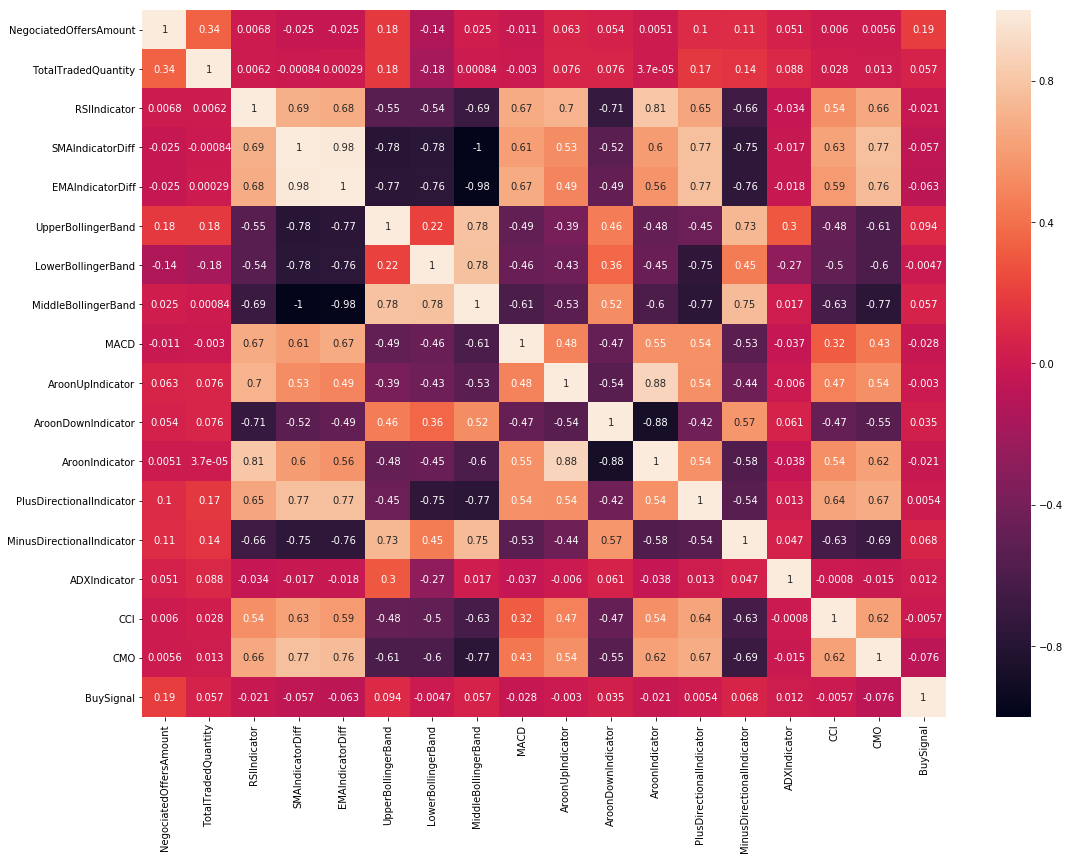
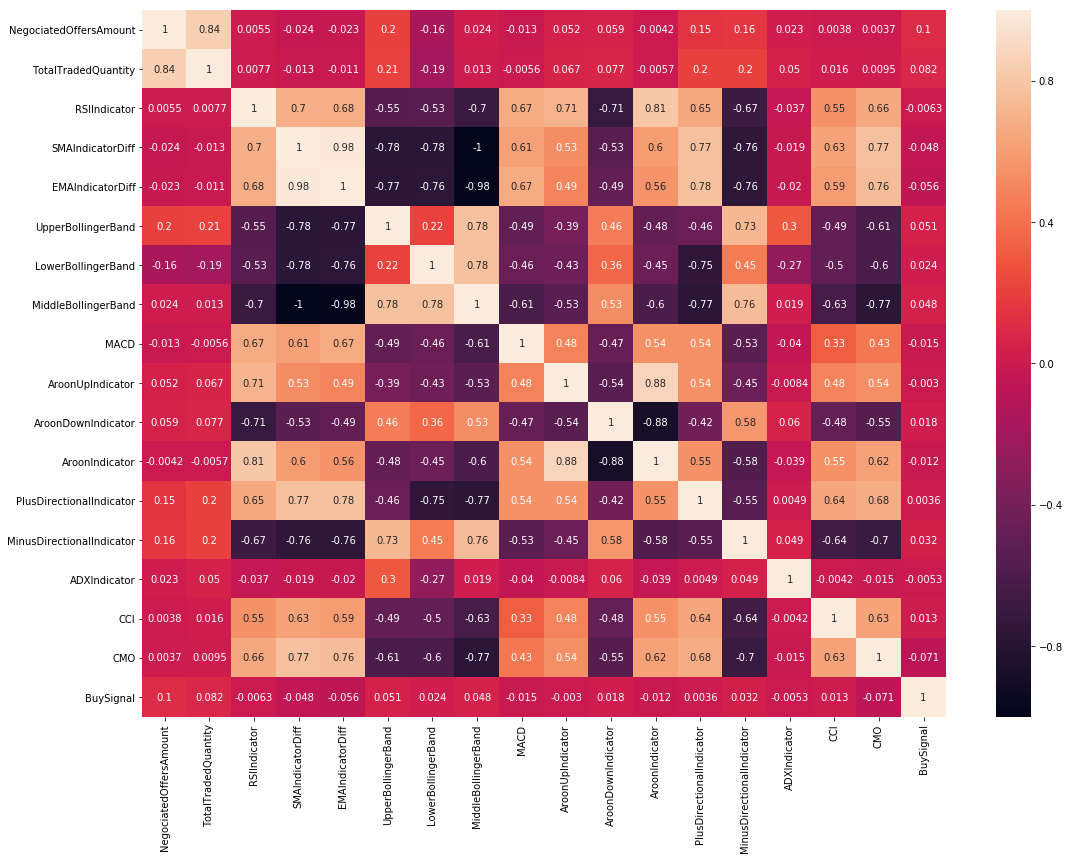
Adição de lucro obtido nos resultados e discussões

diff --git a/exemplo_projeto.tex b/exemplo_projeto.tex
@@ -1,31 +1,3 @@
-%%
-%% This is file `example.tex',
-%% generated with the docstrip utility.
-%%
-%% The original source files were:
-%%
-%% coppe.dtx  (with options: `example')
-%% 
-%% This is a sample monograph which illustrates the use of `coppe' document
-%% class and `coppe-unsrt' BibTeX style.
-%% 
-%% \CheckSum{1416}
-%% \CharacterTable
-%%  {Upper-case    \A\B\C\D\E\F\G\H\I\J\K\L\M\N\O\P\Q\R\S\T\U\V\W\X\Y\Z
-%%   Lower-case    \a\b\c\d\e\f\g\h\i\j\k\l\m\n\o\p\q\r\s\t\u\v\w\x\y\z
-%%   Digits        \0\1\2\3\4\5\6\7\8\9
-%%   Exclamation   \!     Double quote  \"     Hash (number) \#
-%%   Dollar        \$     Percent       \%     Ampersand     \&
-%%   Acute accent  \'     Left paren    \(     Right paren   \)
-%%   Asterisk      \*     Plus          \+     Comma         \,
-%%   Minus         \-     Point         \.     Solidus       \/
-%%   Colon         \:     Semicolon     \;     Less than     \<
-%%   Equals        \=     Greater than  \>     Question mark \?
-%%   Commercial at \@     Left bracket  \[     Backslash     \\
-%%   Right bracket \]     Circumflex    \^     Underscore    \_
-%%   Grave accent  \`     Left brace    \{     Vertical bar  \|
-%%   Right brace   \}     Tilde         \~}
-%%
 \documentclass[grad,numbers]{coppe}
 \usepackage{amsmath,amssymb}
 \usepackage{hyperref}
@@ -44,13 +16,9 @@
   \foreigntitle{Machine Learning Techniques applied to AlgoTrading in the Stock Market}
   \author{Lucas}{Schlee de Brito Fernandes}
   \advisor{Prof.}{Heraldo}{Luís Silveira de Almeida}{D.Sc.}
-  \advisor{Prof.}{Flávio}{Luis de Mello}{Ph.D.}
 
-  \examiner{Prof.}{Nome do Primeiro Examinador Sobrenome}{D.Sc.}
-  \examiner{Prof.}{Nome do Segundo Examinador Sobrenome}{Ph.D.}
-  \examiner{Prof.}{Nome do Terceiro Examinador Sobrenome}{D.Sc.}
-  \examiner{Prof.}{Nome do Quarto Examinador Sobrenome}{Ph.D.}
-  \examiner{Prof.}{Nome do Quinto Examinador Sobrenome}{Ph.D.}
+  \examiner{Prof.}{Flávio Luis de Mello}{D.Sc.}
+  \examiner{Prof.}{Jomar Gozzi}{D.Sc.}
   
   
   
@@ -115,13 +83,13 @@
 
   \begin{abstract}
 
-  A cada dia no mercado de ações é possível identificar milhares de decisões tomadas automaticamente, sem a necessidade de intervenção humana. Apesar disso, essa tendência, considerada irreversível, ainda utiliza estratégias baseadas em regras bem definidas. Nesse contexto, o presente trabalho propõe a aplicação de técnicas de aprendizado de máquina para identificar padrões e prever a direção dos preços das ações para negociações de alta frequência.
+  A cada dia no mercado de ações é possível identificar milhares de decisões tomadas automaticamente, sem a necessidade de intervenção humana. Apesar disso, essa tendência, considerada irreversível, ainda utiliza estratégias baseadas em regras estritamente definidas. Nesse contexto, o presente trabalho propõe a aplicação de técnicas de aprendizado de máquina para identificar padrões e prever a direção dos preços das ações para negociações de alta frequência.
 
   \end{abstract}
 
   \begin{foreignabstract}
 
-  Each day in the stock market it`s possible to identify thousands of decisions made automatically, without the need for human intervention. Despite this, this trend, considered irreversible, still uses strategies based on well-defined rules. In this context, the present work proposes the application of machine learning techniques to identify patterns and predict the direction of stock prices for high frequency trades.
+  On each day in the stock market it`s possible to identify thousands of decisions made automatically, without the need for human intervention. Despite this fact, this irreversible trend still uses strategies based on strictly defined rules. In this context, the present work proposes the application of machine learning techniques to identify patterns and predict the direction of stock prices for high frequency trades.
 
   \end{foreignabstract}
 
@@ -671,8 +639,14 @@
                 
                 \paragraph{}Então:
                 
-                \begin{equation}\label{eq:precisao-minima}
+                \begin{equation}
                     P > \frac{1}{K + 1}
+                \end{equation}
+                
+                \paragraph{}Que é equivalente a:
+                
+                \begin{equation}\label{eq:precisao-minima}
+                    P > \frac{y}{x + y}
                 \end{equation}
                 
                 \paragraph{}Em suma, a partir da relação acima, pode ser definida uma precisão mínima que nunca causa prejuízos nos falsos positivos a partir dos limites $x$ e $y$. Destaca-se o cenário de que, mesmo obtendo uma precisão menor do que a mínima segura, ainda é possível obter lucro pelo modelo se houver uma parcela de falsos positivos que não ultrapassagem a margem inferior $y$.
@@ -687,7 +661,7 @@
         
         \paragraph{}Após a importação dos dados brutos, escolheu-se empricamente uma janela de tempo de 3 minutos para a geração os indicadores de análise técnica com a saída determinada pela estratégia descrita na seção \ref{sec:estrategia-saida} para o intervalo futuro de tempo de 1 minuto a partir do tempo de fim da janela de tempo. 
         
-        \paragraph{}Para o limite superior e inferior dos preços, também utilizados na estratégia de formação da variável de saída, foram considerados o valores $x = 0,01$ e $y = 2x = 0,02$, respectivamente. A escolha desses limites está intrinsecamente ligada com a distribuição das classes binárias "0" e "1" do conjunto de dados e, para esses limites, foi possível obter uma distribuição de $55,63\%$ da classe "1". A distribuição das classes próxima de $50\%$ é essencial, pois reduz o viés que pode ser obtido decorrente de uma distribuição desproporcional dos dados. O detalhamento de outros parâmetros como períodos de tempo para formação de cada indicador está especificado no apêndice \ref{cap:params}. Especificados os parâmetros de pré-processamento, o software C\# inicia o agrupamento dos dados para cada dia coletado na BM\&FBOVESPA.
+        \paragraph{}Para o limite superior e inferior dos preços, também utilizados na estratégia de formação da variável de saída, foram considerados o valores $x = 0,01$ e $y = 2x = 0,02$, respectivamente. Com a escolha desses limites, os dados ficaram distribuídos com aproximadamente $66,7\%$ como classe "1" e, para o treinamento do modelo, foram excluídos aleatoriamente dados dessa classe para que a distribuição ficasse equilibrada. A distribuição das classes próxima de $50\%$ é essencial, pois reduz o viés que pode ser obtido decorrente de uma distribuição desproporcional dos dados. O detalhamento de outros parâmetros como períodos de tempo para formação de cada indicador está especificado no apêndice \ref{cap:params}. Especificados os parâmetros de pré-processamento, o software C\# inicia o agrupamento dos dados para cada dia coletado na BM\&FBOVESPA.
         
         \paragraph{}Após o pré-processamento dos dados e normalização das variáveis, observou-se a correlação entre as variáveis de entrada e a variável de saída pelo mapa de calor representado pela figura \ref{img:heatmap}. Observa-se que, apesar das variáveis independentes de entrada possuirem uma correlação forte entre si em vários casos, a correlação dessas variáveis com a variável dependente de saída é fraca, alcançando seu maior valor com a variável que representa o número de negociações dentro do intervalo especificado. 
         
@@ -700,27 +674,41 @@
         
         São aplicados, então, os modelos de Regressão Logística e \textit{Multi-layer Percerptron} descritos em \ref{sec:models} para janela de treino, como detalhadado em \ref{sec:validation}. As figuras \ref{img:performance-logreg} e \ref{img:performance-mlp} mostram a performance de cada modelo com a medida das precisões e realocações sobre a quantidade de dias de treino. Dessa forma, é possível acompanhar a evolução das medidas até o máximo de cada métrica.
         
-        \paragraph{}Em ambos os gráficos, nota-se que tanto as realocações quanto as precisões apresentam uma curva ascendente até alcançarem o seu máximo, depois apresentam uma curva descendente. Na Regressão Logística, a máxima realocação observada foi de aproximadamente $90,56\%$ com 88 dias de treino e a máxima precisão foi de aproximadamente $63,07\%$, alcançada com 78 dias. Já no MLP, foi observada uma realocação máxima de aproximadamente $90,22\%$ com 80 dias, enquanto que sua maior precisão foi de $63,28\%$ com 98 dias de treino.
+        \paragraph{}Em ambos os gráficos, nota-se que tanto as realocações quanto as precisões apresentam uma curva ascendente até alcançarem o seu máximo, depois apresentam uma curva descendente. Na Regressão Logística, a máxima realocação observada foi de aproximadamente $62,57\%$ com 104 dias de treino e a máxima precisão foi de aproximadamente $75,73\%$, alcançada com 120 dias. Já no MLP, foi observada uma realocação máxima de aproximadamente $68,40\%$ com 107 dias, enquanto que sua maior precisão foi de $75,93\%$ com 119 dias de treino.
         
         \begin{figure}[h!]
             \caption{Performance da Regressão Logística}
             \label{img:performance-logreg}
-            \includegraphics[width=12.1cm]{performance-logreg.png}
+            \includegraphics[width=13.1cm]{performance-logreg.png}
             \centering
         \end{figure}
         
         \begin{figure}[h!]
             \caption{Performance do \textit{Multi-layer Perceptron}}
             \label{img:performance-mlp}
-            \includegraphics[width=12.1cm]{mlp-performance.png}
+            \includegraphics[width=13.1cm]{mlp-performance.png}
             \centering
         \end{figure}
         
-        \paragraph{}Apesar da maior precisão encontrada pelos modelos ter sido obtida com o \textit{Multi-Layer Perceptron}, o modelo necessitou de um conjunto de dados dos últimos 98 dias, 20 dias a mais do que o algoritmo de Regressão Logística necessitou para encontrar seu máximo de precisão. Para a realocação, o MLP necessitou de 8 dias a menos de treino para alcançar seu máximo de $90,22\%$, porém o maior valor, de $90,46\%$, foi alcançado pela Regressão Logística com 88 dias de treino.
+        \paragraph{}Ao observar a curva de precisão em ambos os modelos, nota-se que conforme os dias de treino aumentam, essa medida tende a crescer. A curva de sensibilidade ou realocação, apesar de ter apresentado um comportamento ascendente durante a maior parte da janela, apresentou uma queda após o seu máximo, indicando um limite de dados ótimos para a identificação de oportunidades de compra. A curva F1, representada em verde, indica uma média harmônica entre a precisão e a sensibilidade, acompanhando a evolução da performance das 2 medidas, estando sempre entre as mesmas.
         
-        \paragraph{}Ao observar a evolução das precisões e realocações, pode-se perceber um ruído muito maior no MLP. A curva traçada para ambas as medidas pela regressão é consideravelmente mais suave, fator que indica maior estabilidade e, portanto, confiabilidade e poder preditivo do algoritmo.
+        \paragraph{}Comparando os máximos valores de precisão obtidos no \textit{Multi-Layer Perceptron} e na Regressão Logística com a mínima precisão mínima segura definida na equação \ref{eq:precisao-minima}, nota-se que em ambos os modelos o mínimo de $66,7\%$ é superado. Espera-se, dessa forma, que sucessivas ordens de compra e venda obtenham lucro se enviadas respeitando a previsão do modelo.
         
-        \paragraph{}Nota-se que a maior precisão obtida pelos modelos utilizados, de $63,28\%$, ainda encontra-se abaixo da mínima precisão segura definida na equação \ref{eq:precisao-minima}. Para garantir a máxima segurança do modelo, segundo essa relação, seria preciso alcançar pelo menos $66,67\%$ de precisão. Apesar disso, dada a proximidade da precisão real com a mínima segura, é plausível a elaboração de uma estratégia mais arrojada que considere puramente o sinal de saída do presente modelo como disparador de ordens de compra e venda devido a improbabilidade de existir uma parcela elevada de falsos positivos com máximo prejuízo.
+        
+        \paragraph{}Apesar das medidas de precisão serem um indicador positivo na direção dos preços, elas não refletem necessariamente que o modelo obterá lucro. Em uma futura estratégia de compra e venda por um agente autônomo, ordens de compra e venda serão enviadas à mercado, isto é, terão de se adequar a um limiar acima e abaixo do valor nominal do preço para que sejam imediatamente realizadas. 
+        
+        \paragraph{}Com o objetivo de simular as movimentações automáticas e prever o lucro diário, o livro de ofertas com as ordens de compra e venda à mercado foi reconstruído com os dados de negociações a partir da última agressão de compra ou venda de um intervalo específico. Dessa forma, uma ordem de compra à mercado precisa atender necessariamente a última negociação em que a ordem de venda foi a agressora e vice-versa.
+        
+        \paragraph{}Levantados os lucros reais obtidos para cada janela de previsão, foi possível classificar a média de lucro dos dias utilizados para o treinamento do modelo. Para isso, somaram-se todas as previsões positivas, ou seja, verdadeiros positivos e falsos positivos de cada dia previsto para cada ciclo de dias de treinamento. A evolução dos lucros sobre a quantidade de dias de treino pode ser observada pela figura \ref{img:lucro}. O eixo $y$ do gráfico indica a soma dos ganhos por unidade de ação diariamente enquanto que o eixo $x$ indica o número de dias de treino.
+        
+        \begin{figure}[h!]
+            \caption{Evolução do lucro dos modelos}
+            \label{img:lucro}
+            \includegraphics[width=13.1cm]{lucro.png}
+            \centering
+        \end{figure}
+        
+        \paragraph{}Pela evolução dos lucros obtidos, nota-se que existe um lucro crescente que acompanha a performance de ambos os modelos. Para o MLP, por exemplo, o máximo lucro obtido coincidiu com o número de dias necessários para obter a maior performance de sensibilidade (realocação), 107 dias. O lucro máximo para a regressão logística, apesar de não coincidir com o número de dias de treino para o máximo de precisão e sensibilidade, também apresentou seu máximo próximo do máximo de precisão encontrado. 
         
   
   \chapter{Conclusões}
@@ -729,7 +717,7 @@
     
         \paragraph{}O presente trabalho teve como objetivo aplicar técnicas de aprendizado de máquina para gerar modelos de previsão de direção dos preços. A partir da validação utilizando testes históricos das séries temporais, foi possível verificar que a tomada de decisão apoiada por algoritmos de inteligência artificial pode ser muito mais eficaz do que uma simples análise técnica tradicional.
         
-        \paragraph{}Ao aplicar a estratégia definida para o caso de uso real das ações da Petrobrás (PETR4), foi possível observar que, mesmo para um grupo mínimo de dias de treino, o modelo apresentou uma precisão considerávelmente maior do que um modelo aleatório. Apesar do caso de uso não ter apresentado o requisito mínimo de precisão para garantir o lucro, já é possível a utilização do presente modelo para uma estratégia mais arrojada puramente baseada em aprendizado de máquina.
+        \paragraph{}Ao aplicar a estratégia definida para o caso de uso real das ações da Petrobrás (PETR4), foi possível observar que, mesmo para um grupo mínimo de dias de treino, o modelo apresentou uma precisão considerávelmente maior do que um modelo aleatório. Dessa forma, já é possível a utilização do presente modelo para uma estratégia mais arrojada puramente baseada em aprendizado de máquina.
         
         \paragraph{}Mesmo restringindo o caso de uso à análise de um ativo específico da BM\&FBOVESPA, o agrupamento dos dados foi implementado com o objetivo de ser generalizado para qualquer ativo do mercado financeiro em uma base diária de \textit{ticks} que defina o mesmo \textit{layout} da tabela \ref{tab:layout-neg}, incluindo mini-índices e opções. A flexibilização pensada no \textit{software} implementado para a geração dos indicadores de análise técnica também oferece a possibilidade de customização e adaptação para ativos com outra natureza de flutuação, permitindo análises adequadas aos mais diversos fatores que regem a oscilação dos preços de uma ação.
         
@@ -791,6 +779,10 @@
     \caption{Arquivo JSON com propriedades de calibração dos indicadores de análise técnica} 
     \label{json-example}
     \end{listing}
+    
+    \chapter{Código Base}
+        \paragraph{}Todo o código base desenvolvido para o trabalho foi hospedado no repositório público \textit{GitHub} e pode ser acessado na página do autor \url{https://github.com/lschlee}. Dessa maneira, o código pode ser reutilizado e evoluído por qualquer pessoa que quiser contribuir e evoluir com o presente trabalho. 
+        
 \end{document}
 %% 
 %%
